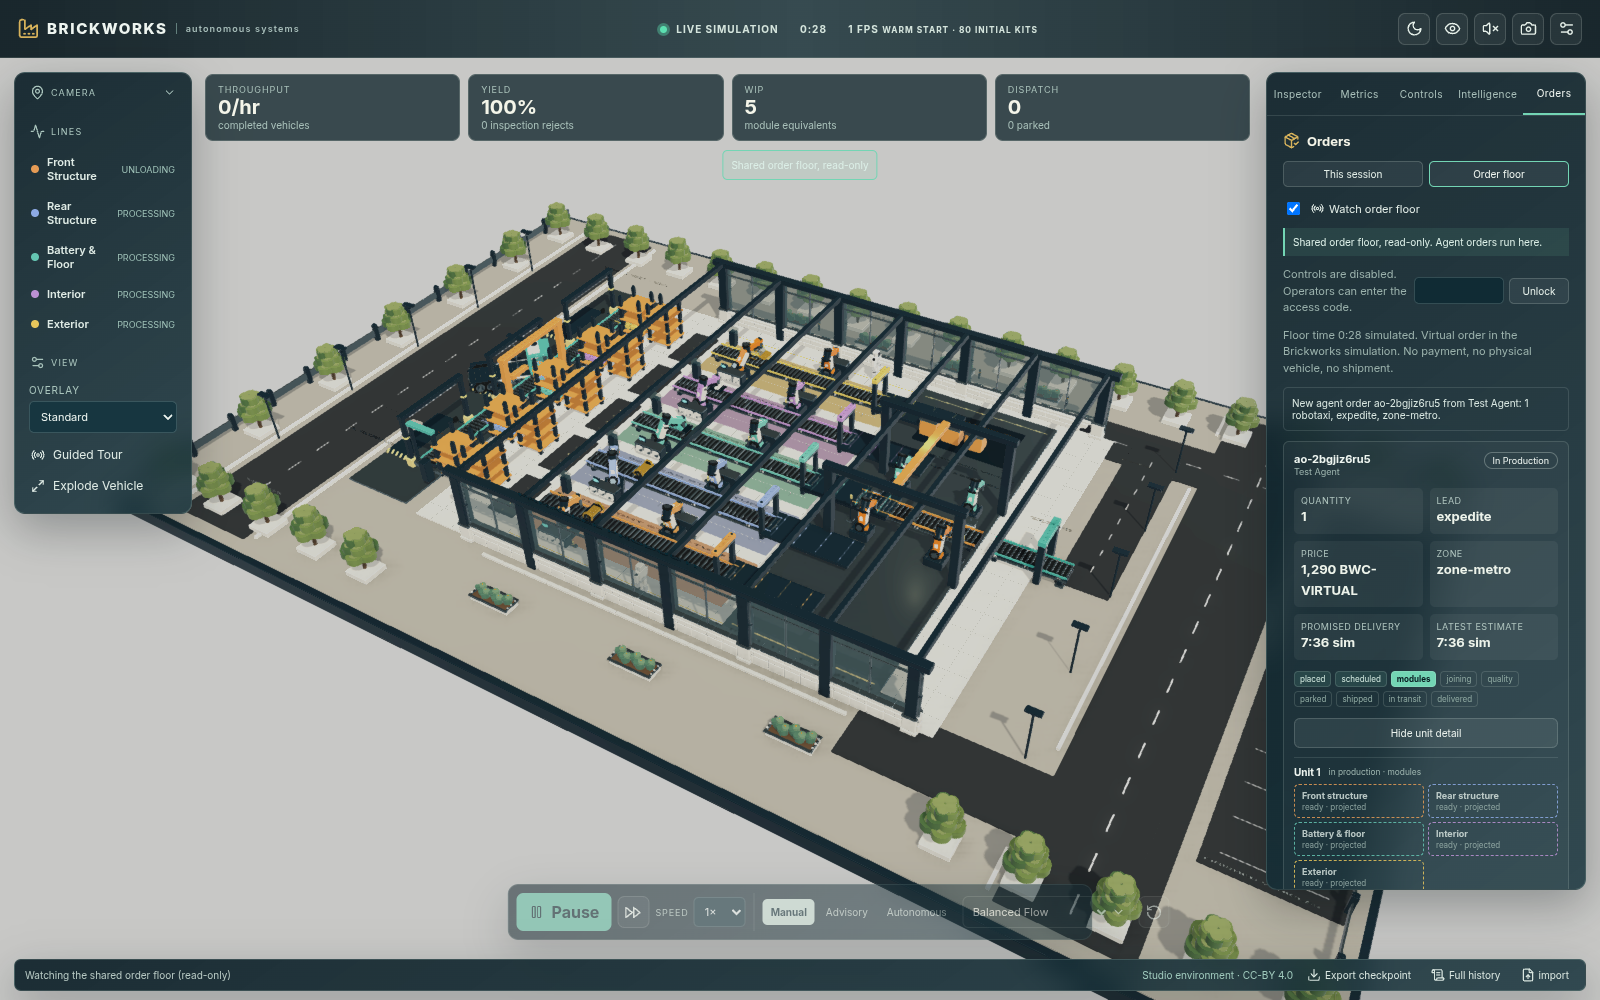
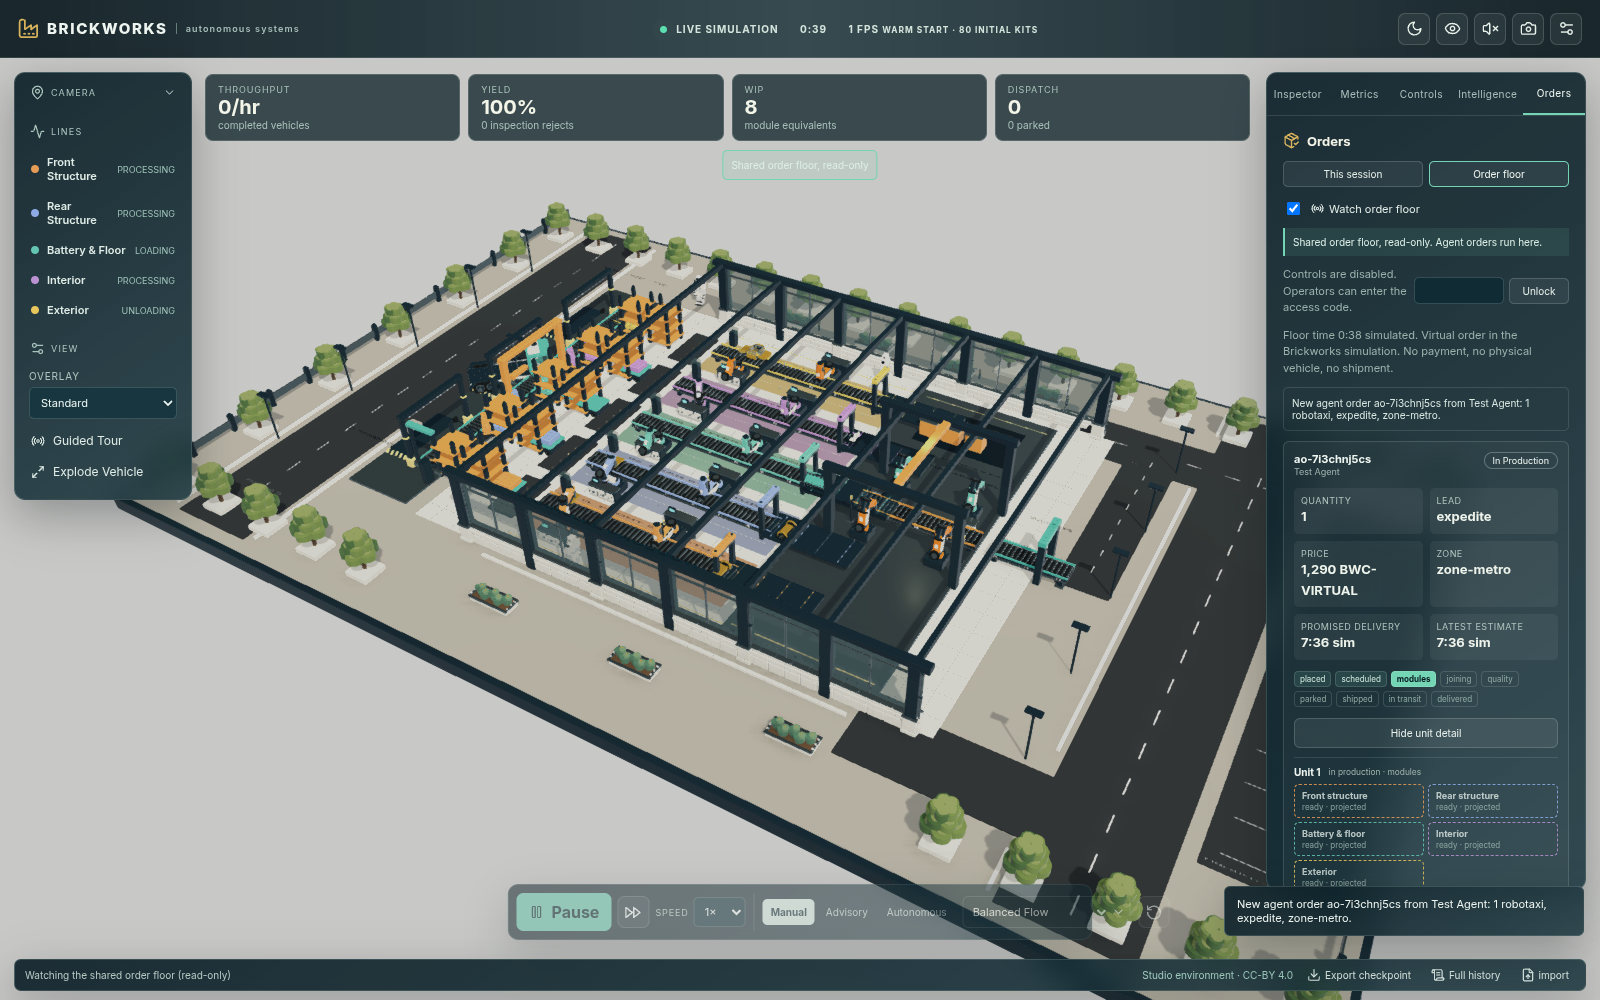
DF-ORDER-001 item 34 evidence: toast screenshots while visible, lag probe, re-run counts

diff --git a/docs/review/order-desk/README.md b/docs/review/order-desk/README.md
@@ -2,7 +2,7 @@
 
 Status: local evidence only. **Not deployed.** Replit publish requires Filip's yes.
 
-- Date: 2026-10-08 (run at about 01:38 to 01:40 EDT; the timestamps in `browser-check-notes.txt` are UTC).
+- Date: 2026-10-08. The current screenshots and notes come from the re-run at about 04:43 to 04:46 EDT, after the toast fix (the timestamps in `browser-check-notes.txt` are UTC). The first run was at about 01:38 to 01:40 EDT.
 - Branch: `feat/df-order-mcp`.
 - Server: bundled `node dist/server/index.js` after `npm run build`, on `127.0.0.1:3917`.
 - Env: `ORDER_DESK_ENABLED=true` and `ORDER_FLOOR_PUBLIC_VIEW=true`, with a temporary `ORDER_DATA_DIR`. A throwaway `BRICKWORKS_ACCESS_CODE` and a throwaway agent key were generated in memory. Only the key's sha256 reached the server, and neither value was written or printed.
@@ -14,8 +14,9 @@ Status: local evidence only. **Not deployed.** Replit publish requires Filip's y
 | File | What it shows | Result |
 | --- | --- | --- |
 | [01-floor-read-only.png](01-floor-read-only.png) | "Watch order floor" is on. The banner reads "Shared order floor, read-only. Agent orders run here." The control dock is dimmed and `inert` without the operator code. | PASS |
-| [02-incoming-order-toast.png](02-incoming-order-toast.png) | Toast and feed row: "New agent order ao-2bgjiz6ru5 from Test Agent: 1 robotaxi, expedite, zone-metro." The card shows status text, price in `BWC-VIRTUAL`, promised and latest ETA, and the stepper. | PASS |
-| [03-projected-chips.png](03-projected-chips.png) | Before commitment, all five line chips are dashed with `binding: projected`. | PASS |
+| [02-incoming-order-toast.png](02-incoming-order-toast.png) | Captured while the toast is up (bottom right): "New agent order ao-7i3chnj5cs from Test Agent: 1 robotaxi, expedite, zone-metro.", plus the matching feed row and the card with status text, price in `BWC-VIRTUAL`, promised and latest ETA, and the stepper. Before the capture, the driver asserts the toast is really visible: Playwright `isVisible()`, a bounding box inside the 1600x1000 viewport (`x 1224, y 894, 360x50`), computed opacity 1, and the toast itself at `elementFromPoint` of its center, so nothing covers it. | PASS |
+| [02b-incoming-order-toast-detail.png](02b-incoming-order-toast-detail.png) | Close-up of the same toast, taken after screenshot 03 while it is still up. The same assertions passed again after this capture and again 23.1 s after the toast appeared, all at opacity 1. The toast then dismissed itself after 31.5 wall seconds at this client's roughly 1 FPS (see the toast fix below). | PASS |
+| [03-projected-chips.png](03-projected-chips.png) | Before commitment, all five line chips are dashed with `binding: projected`. The toast is still visible in this capture. | PASS |
 | [04-bound-chips.png](04-bound-chips.png) | After `assembly-start`, the chips are solid with module id and lot; the stepper is at "joining". | PASS |
 | [05-inspector-link.png](05-inspector-link.png) | Clicking the vehicle id selects `taxi-1` in the Inspector. The new "Agent order" row shows the order id and agent label, with a "Follow vehicle" button. | PASS |
 | [06-tracking-strip.png](06-tracking-strip.png) | In transit: a virtual carrier tracking strip with legs, planned and actual times, delay flag and ETA, plus recent updates with factory event ids. | PASS |
@@ -29,9 +30,36 @@ Other observations from the run:
 - Browser console errors: none.
 - The server log contained neither the key, its hash, nor the operator code.
 
+## Toast fix (QA item 34)
+
+QA could not see the toast on screen in three attempts at `7484161`, though it was in the DOM. The first `02` capture also showed only the feed row. Root cause, measured in this headless SwiftShader browser, where `requestAnimationFrame` ran at 1.5 FPS:
+
+- The entrance keyframes started at `opacity: 0`. At about 1 FPS the 0.25 s animation barely advanced, so the toast's computed opacity stayed 0 for more than a second after mount. The old capture fired at exactly that moment.
+- The 6 second `setTimeout` started at mount and ran on wall time, while the main thread was starved by the 3D render. A sampler in the page stalled for 5 s, and the toast reached opacity 1 only just before the timer removed it. So a slow client got essentially no painted frames of a visible toast.
+
+Fix: the entrance animation now slides only and is fully opaque from its first frame (no animation under `prefers-reduced-motion`). `OrderToast` runs its countdown on painted animation frames (`toastFrame` and `toastExpired` in `apps/web/src/orderFloor.ts`, unit tested in `tests/order-web-toast.test.ts`):
+
+- The countdown starts at first paint.
+- Each frame credits at most 250 ms, so a starved main thread cannot burn the 6 seconds.
+- No credit is given while the tab is hidden or the toast is hovered or focused.
+- The toast never expires before 3 painted frames.
+- A 30 second foreground ceiling bounds very slow clients.
+
+At 60 FPS the toast stays up exactly 6 s. In this roughly 1 FPS browser it stayed up 31.5 wall seconds.
+
+Live stream frames are now batched per task: every frame is still validated and counted if malformed, but only the newest snapshot and desk are rendered. A burst that queues behind a slow 3D frame therefore costs one React render instead of one per frame.
+
+## Stream lag probe (QA item 34)
+
+QA saw the page lag the live stream by 5 to 11 minutes at about 1 FPS. Stream handling does not depend on `requestAnimationFrame`: WebSocket messages are handled in their own tasks, and only the Babylon render loop runs on animation frames. `lag-probe.mjs` measures it. It opens the Orders tab in headless Chrome with SwiftShader, sets the floor to speed 10, places an order every 3 minutes, and compares the server floor clock with the page clocks once a minute.
+
+Result at `b45981d` (2026-10-08, 04:53 to 05:04 EDT, [lag-probe-notes.txt](lag-probe-notes.txt)): rAF ran at 1.0 to 1.3 FPS for 10 minutes. The header clock trailed the server by 0 to 5 sim seconds, and the desk floor time by 1.3 to 10 sim seconds, which is at most about 1 wall second at speed 10. The gap did not grow over the run. Multi-minute lag did not reproduce here. A slower or more contended machine than this one, or a longer session than QA's, is still untested.
+
+The notes come from the same measurement loop before it was moved into this folder. The committed copy adds only the console error and secret-in-log lines at the end, which the recorded run does not have.
+
 ## Notes and limits
 
-- The optional 3D order tag and carrier cue (spec task 17, "optional") are not implemented. The reduced-motion rule therefore applies only to the toast entrance animation, which the existing `prefers-reduced-motion` block already shortens.
-- Malformed `orders` frames are covered by `tests/order-web-floor.test.ts` against the same `parseLiveFrame` the client uses. It was not exercised by injecting frames into the browser.
+- The optional 3D order tag and carrier cue (spec task 17, "optional") are not implemented. The reduced-motion rule therefore applies only to the toast entrance animation, which is turned off under `prefers-reduced-motion`.
+- Malformed `orders` frames are covered by `tests/order-web-floor.test.ts` and `tests/order-web-toast.test.ts` (the batch reducer counts every malformed frame) against the same validator the client uses. This driver does not inject frames. QA Helper injected 6 malformed frames live at `7484161` and saw 6 rejections (item 35 PASS).
 - Promised versus latest ETA differ in 06 and 07 because the operator changed floor speed after the quote. That is an input the forecast could not know about, and `estimate.revised` reports it as the spec intends. With no other inputs the ship time matches the quote exactly (see the smoke run in `docs/release-evidence.md`).
 - When the linked vehicle has already left the floor, clicking its id shows a notice pointing to the tracking strip instead of opening an empty Inspector.

diff --git a/tests/acceptance-checklist.md b/tests/acceptance-checklist.md
@@ -26,12 +26,12 @@ Status legend: `PASS` requires dated command, recording, or inspection evidence.
 
 | Area | Acceptance evidence | Status |
 | --- | --- | --- |
-| Order desk tests, typecheck, build | 2026-10-08, local Node 22.23.3: `npm test` passed 31 files, 202 tests at `d78b39c` (14 new order desk files with 79 tests, plus the 17 prior files with 123 tests). The 17 prior test files (123 tests) were unmodified. `node scripts/soak-finalization-regression.mjs` passed. `npm run typecheck` and `npm run build` passed, the build including `dist/server/forecast-worker.js`. CI "Verify factory" ran on every push of the branch. | PASS, local scope |
+| Order desk tests, typecheck, build | 2026-10-08, local Node 22.23.3: `npm test` passed 32 files, 211 tests at `b45981d` (15 new order desk files with 88 tests, plus the 17 prior files with 123 tests). The 17 prior test files (123 tests) were unmodified. `node scripts/soak-finalization-regression.mjs` passed at `b45981d`. `npm run typecheck` and `npm run build` passed, the build including `dist/server/forecast-worker.js`. CI "Verify factory" ran on every push of the branch. | PASS, local scope |
 | Off by default and kill switch | `tests/order-desk-server.test.ts` and smoke phase 1: with the flag unset, `/mcp`, `/api/agent/v1/*`, discovery and `/api/order-floor/*` return 503 and no floor exists. With the desk on, the kill switch blocks MCP and REST and its release restores them. | PASS, local scope |
 | MCP end to end on seed 42 `balanced` | `tests/order-mcp-e2e.test.ts`: 8 tools, every public status through `delivered`, ship time equal to the quote, archive replay digest match. | PASS |
 | Agent-order scenarios | `standard-delivery`, `assembly-outage-delay` and `cancel-before-commit` meet their `expect` blocks through the MCP scenario runner. | PASS |
-| Bundled-server smoke | `node scripts/agent-order-smoke.mjs` against `npm start` artifacts at speed 1: 30 of 30 checks passed at `d78b39c` (2026-10-08, about 03:21 to 03:27 EDT). Off by default: 7 checks. Enabled: 8 tools; catalog and capabilities without the seed; a quote in 242 ms; place plus idempotent replay; cross-agent read refused, with `virtual: true` and the disclaimer in the MCP error body; every status placed through delivered in 361 wall seconds; factory event links; tracking with 2 legs; 9 resource notifications; `list_orders` and `get_order_updates` carry the virtual notice; actual ship 241.125 s equal to the quoted 241.125 s; REST parity, and a 401 whose body carries the notice. Kill switch: existing and new MCP calls and REST blocked (the REST 503 body carries the notice), then restored after release. No keys or hashes in logs. The earlier run at `c2f072e` passed 28 of 28. Log: [order-desk-smoke.txt](../docs/review/order-desk-smoke.txt). | PASS, local scope |
-| Orders tab browser check | Headless Chrome against the bundled server, screenshots and notes in [docs/review/order-desk](../docs/review/order-desk/README.md). The optional carrier cue is not implemented, so its reduced-motion check is not applicable. | PASS, local scope |
+| Bundled-server smoke | `node scripts/agent-order-smoke.mjs` against `npm start` artifacts at speed 1: 30 of 30 checks passed at `b45981d` (2026-10-08, about 04:47 to 04:53 EDT), the same result as the earlier run at `d78b39c` (about 03:21 to 03:27 EDT), whose details follow. Off by default: 7 checks. Enabled: 8 tools; catalog and capabilities without the seed; a quote in 242 ms; place plus idempotent replay; cross-agent read refused, with `virtual: true` and the disclaimer in the MCP error body; every status placed through delivered in 361 wall seconds; factory event links; tracking with 2 legs; 9 resource notifications; `list_orders` and `get_order_updates` carry the virtual notice; actual ship 241.125 s equal to the quoted 241.125 s; REST parity, and a 401 whose body carries the notice. Kill switch: existing and new MCP calls and REST blocked (the REST 503 body carries the notice), then restored after release. No keys or hashes in logs. The earlier run at `c2f072e` passed 28 of 28. Log: [order-desk-smoke.txt](../docs/review/order-desk-smoke.txt). | PASS, local scope |
+| Orders tab browser check | Headless Chrome (SwiftShader, about 1 FPS) against the bundled server at `b45981d`, screenshots and notes in [docs/review/order-desk](../docs/review/order-desk/README.md). The incoming-order toast is asserted really visible (`isVisible()`, box inside the viewport, opacity 1, on top at its center) at first sight, after the screenshots and 23.1 s later. [02-incoming-order-toast.png](../docs/review/order-desk/02-incoming-order-toast.png) was captured while it was up. The toast lifecycle is unit tested in `tests/order-web-toast.test.ts` (spec correction 39). The optional carrier cue is not implemented, so its reduced-motion check is not applicable. | PASS, local scope |
 | 30-minute soak with desk enabled | `node scripts/agent-order-soak.mjs` (SOAK_SECONDS=1800): passed (2026-10-08, about 01:48 to 02:18 EDT). 31 samples over 1800 wall seconds and 1800 floor-simulated seconds. 10 virtual orders placed and 0 refused; 7 delivered, 3 active, 0 failed; mean quoted ship 195.2 s against actual 203.3 s; on-time share 0.889. Floor material, receiving and ledger deltas were 0 in every sample. Floor events peaked at 1,013 (bound 2,000) and the desk update log at 236. The floor viewer received 14,365 snapshot and 1,788 orders frames with 0 errors. Heap 31.6 to 52.3 MB, RSS 119.4 to 164.5 MB. The concurrent visitor-session soak (`scripts/soak.mjs`, speed 10) passed 31 samples with 403 completed, 400 dispatched, 0 material delta and 0 stream errors. Evidence: [order-desk-soak.json](../docs/review/order-desk-soak.json), [order-desk-soak-session.json](../docs/review/order-desk-soak-session.json) | PASS, local scope |
 | Virtual notice on every agent response (safety rule 1, QA item 11) | `tests/order-virtual-notice.test.ts` walks every REST route and every MCP tool on success, and on 400, 401, 403, 404, 409, 413, 415, 422, 429 and 503 (off, kill switch, paused). It also covers SSE events, resources, resource errors and MCP transport errors (403, 404, 400, 406, 413, 401, 503). Every body carries `virtual: true` and the disclaimer, at the top level or, for JSON-RPC envelopes, in `error.data` or `result._meta`. Spec correction 36. | PASS |
 | Rate limits charged after validation and the pause | `tests/order-rate-limits.test.ts`: invalid, unknown-quote, paused and kill-switch placements never spend the place budget or return 429. The first real order still passes, a replay is free, and the next new order is 429. Quotes are charged only when valid. Failed-auth floods per IP and invalid floods per agent still get 429. Spec correction 38. | PASS |

diff --git a/docs/release-evidence.md b/docs/release-evidence.md
@@ -8,13 +8,14 @@ The order desk on branch `feat/df-order-mcp` is **not deployed**. It is off by d
 
 | Check | Command | Result |
 | --- | --- | --- |
-| Test suite | `npm test` (`vitest run --root .`; locally run as `env -u TYPESAFE_API_KEY npm test` so a box provider key cannot leak into tests) | 31 files, 202 tests at `d78b39c` (14 new order desk files with 79 tests, plus the 17 prior files with 123 tests). The 17 prior files (123 tests) were unmodified. The QA fixes added `order-virtual-notice` (3 tests) and `order-rate-limits` (4 tests). |
-| Typecheck | `npm run typecheck` | exit 0 (at `d78b39c`) |
-| Build | `npm run build` | exit 0 (at `d78b39c`). Bundles `dist/server/index.js`, the experiment, replay and forecast workers, and the SPA. |
-| Bundled smoke | `npm run build && node scripts/agent-order-smoke.mjs` (speed 1, `zone-local`, 20-minute limit) | 30 of 30 checks passed at `d78b39c` (2026-10-08, about 03:21 to 03:27 EDT). Off by default: 7 checks. Enabled: 8 tools; catalog and capabilities without the seed; a quote in 242 ms; place plus idempotent replay; cross-agent read refused, with `virtual: true` and the disclaimer in the MCP error body; every status placed through delivered in 361 wall seconds; factory event links; tracking with 2 legs; 9 resource notifications; `list_orders` and `get_order_updates` carry the virtual notice; actual ship 241.125 s equal to the quoted 241.125 s; REST parity, and a 401 whose body carries the notice. Kill switch: existing and new MCP calls and REST blocked (the REST 503 body carries the notice), then restored after release. No keys or hashes in logs. The earlier run at `c2f072e` passed 28 of 28. Log: [order-desk-smoke.txt](review/order-desk-smoke.txt) |
-| Soak finalization regression | `node scripts/soak-finalization-regression.mjs` | passed, exit 0 (at `d78b39c`) |
+| Test suite | `npm test` (`vitest run --root .`; locally run as `env -u TYPESAFE_API_KEY npm test` so a box provider key cannot leak into tests) | 32 files, 211 tests at `b45981d` (15 new order desk files with 88 tests, plus the 17 prior files with 123 tests). The 17 prior files (123 tests) were unmodified. The QA fixes added `order-virtual-notice` (3 tests), `order-rate-limits` (4 tests) and `order-web-toast` (9 tests). |
+| Typecheck | `npm run typecheck` | exit 0 (at `b45981d`) |
+| Build | `npm run build` | exit 0 (at `b45981d`). Bundles `dist/server/index.js`, the experiment, replay and forecast workers, and the SPA. |
+| Bundled smoke | `npm run build && node scripts/agent-order-smoke.mjs` (speed 1, `zone-local`, 20-minute limit) | 30 of 30 checks passed at `b45981d` (2026-10-08, about 04:47 to 04:53 EDT; quote 256 ms, delivered in 361 wall seconds, ship 241.125 s equal to the quote). Details of the earlier identical run at `d78b39c` (about 03:21 to 03:27 EDT): Off by default: 7 checks. Enabled: 8 tools; catalog and capabilities without the seed; a quote in 242 ms; place plus idempotent replay; cross-agent read refused, with `virtual: true` and the disclaimer in the MCP error body; every status placed through delivered in 361 wall seconds; factory event links; tracking with 2 legs; 9 resource notifications; `list_orders` and `get_order_updates` carry the virtual notice; actual ship 241.125 s equal to the quoted 241.125 s; REST parity, and a 401 whose body carries the notice. Kill switch: existing and new MCP calls and REST blocked (the REST 503 body carries the notice), then restored after release. No keys or hashes in logs. The earlier run at `c2f072e` passed 28 of 28. Log: [order-desk-smoke.txt](review/order-desk-smoke.txt) |
+| Live-stream lag probe | `NODE_PATH=/tmp/df-browser/node_modules CHROME_PATH=/usr/bin/google-chrome PROBE_MINUTES=10 node docs/review/order-desk/lag-probe.mjs` | at `b45981d` (2026-10-08, 04:53 to 05:04 EDT): 10 minutes at 1.0 to 1.3 FPS and speed 10 with an order every 3 minutes. The page clocks trailed the server by at most 10 sim seconds (about 1 wall second), with no growth. QA's multi-minute lag did not reproduce. See [review notes](review/order-desk/README.md). |
+| Soak finalization regression | `node scripts/soak-finalization-regression.mjs` | passed, exit 0 (at `b45981d`) |
 | Desk soak | `SOAK_SECONDS=1800 node scripts/agent-order-soak.mjs` | passed (2026-10-08, about 01:48 to 02:18 EDT). 31 samples over 1800 wall seconds and 1800 floor-simulated seconds. 10 virtual orders placed and 0 refused; 7 delivered, 3 active, 0 failed; mean quoted ship 195.2 s against actual 203.3 s; on-time share 0.889. Floor material, receiving and ledger deltas were 0 in every sample. Floor events peaked at 1,013 (bound 2,000) and the desk update log at 236. The floor viewer received 14,365 snapshot and 1,788 orders frames with 0 errors. Heap 31.6 to 52.3 MB, RSS 119.4 to 164.5 MB. The concurrent visitor-session soak (`scripts/soak.mjs`, speed 10) passed 31 samples with 403 completed, 400 dispatched, 0 material delta and 0 stream errors. Evidence: [order-desk-soak.json](review/order-desk-soak.json), [order-desk-soak-session.json](review/order-desk-soak-session.json) |
-| Browser check | `docs/review/order-desk/browser-check.mjs` | 10 screenshots, no console errors, no secrets in logs. See [review notes](review/order-desk/README.md). |
+| Browser check | `NODE_PATH=/tmp/df-browser/node_modules CHROME_PATH=/usr/bin/google-chrome node docs/review/order-desk/browser-check.mjs` | passed at `b45981d` (2026-10-08, about 04:43 to 04:46 EDT, headless Chrome with SwiftShader at about 1 FPS): 11 screenshots, no console errors, no secrets in logs. The incoming-order toast is asserted really visible (Playwright `isVisible()`, box inside the viewport, computed opacity 1, on top at its center) at first sight, after the screenshots and 23.1 s later. [02-incoming-order-toast.png](review/order-desk/02-incoming-order-toast.png) was captured while it was up. See [review notes](review/order-desk/README.md). |
 
 QA fixes after the QA Helper FAIL on `c2f072e` (spec corrections 36 to 38): the virtual notice is on every agent-facing body, including `list_orders`, `get_order_updates`, every error class, SSE events, webhooks and MCP JSON-RPC envelopes. Rate limits are now charged after auth, validation, the kill switch and the intake pause, and the place budget only when an order is created. The desk soak above ran before these fixes. The fixes change response bodies and limiter order, not the floor or the desk lifecycle.
 
